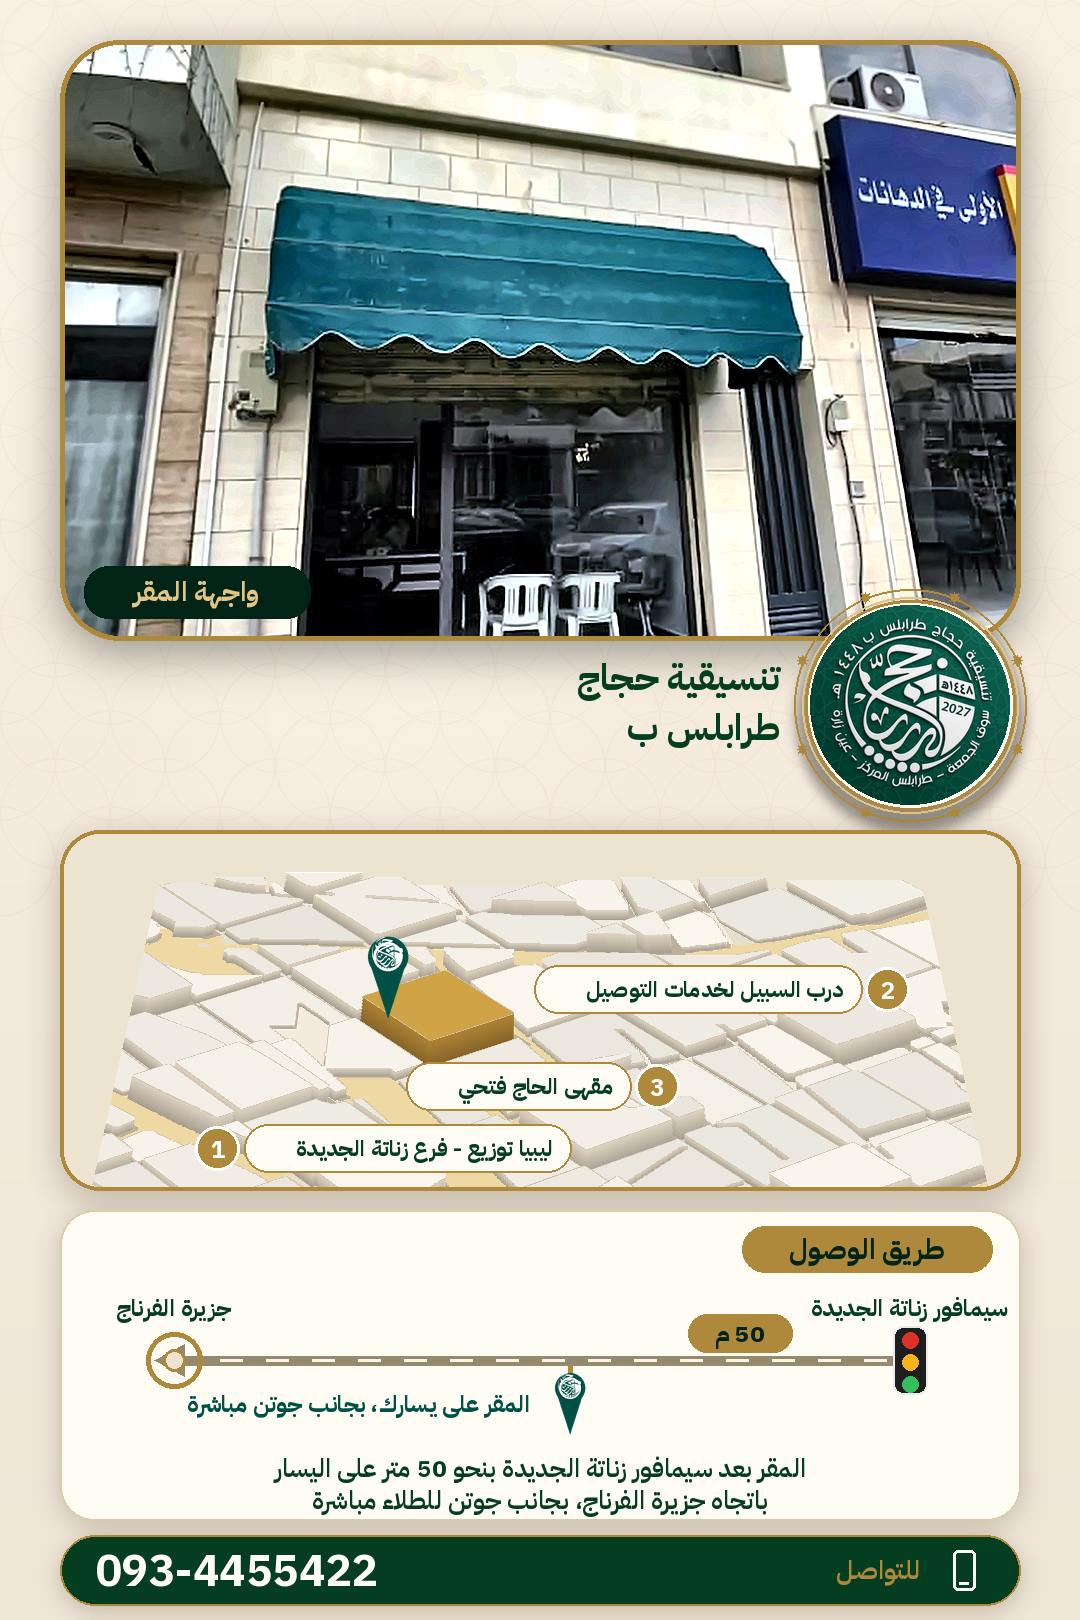
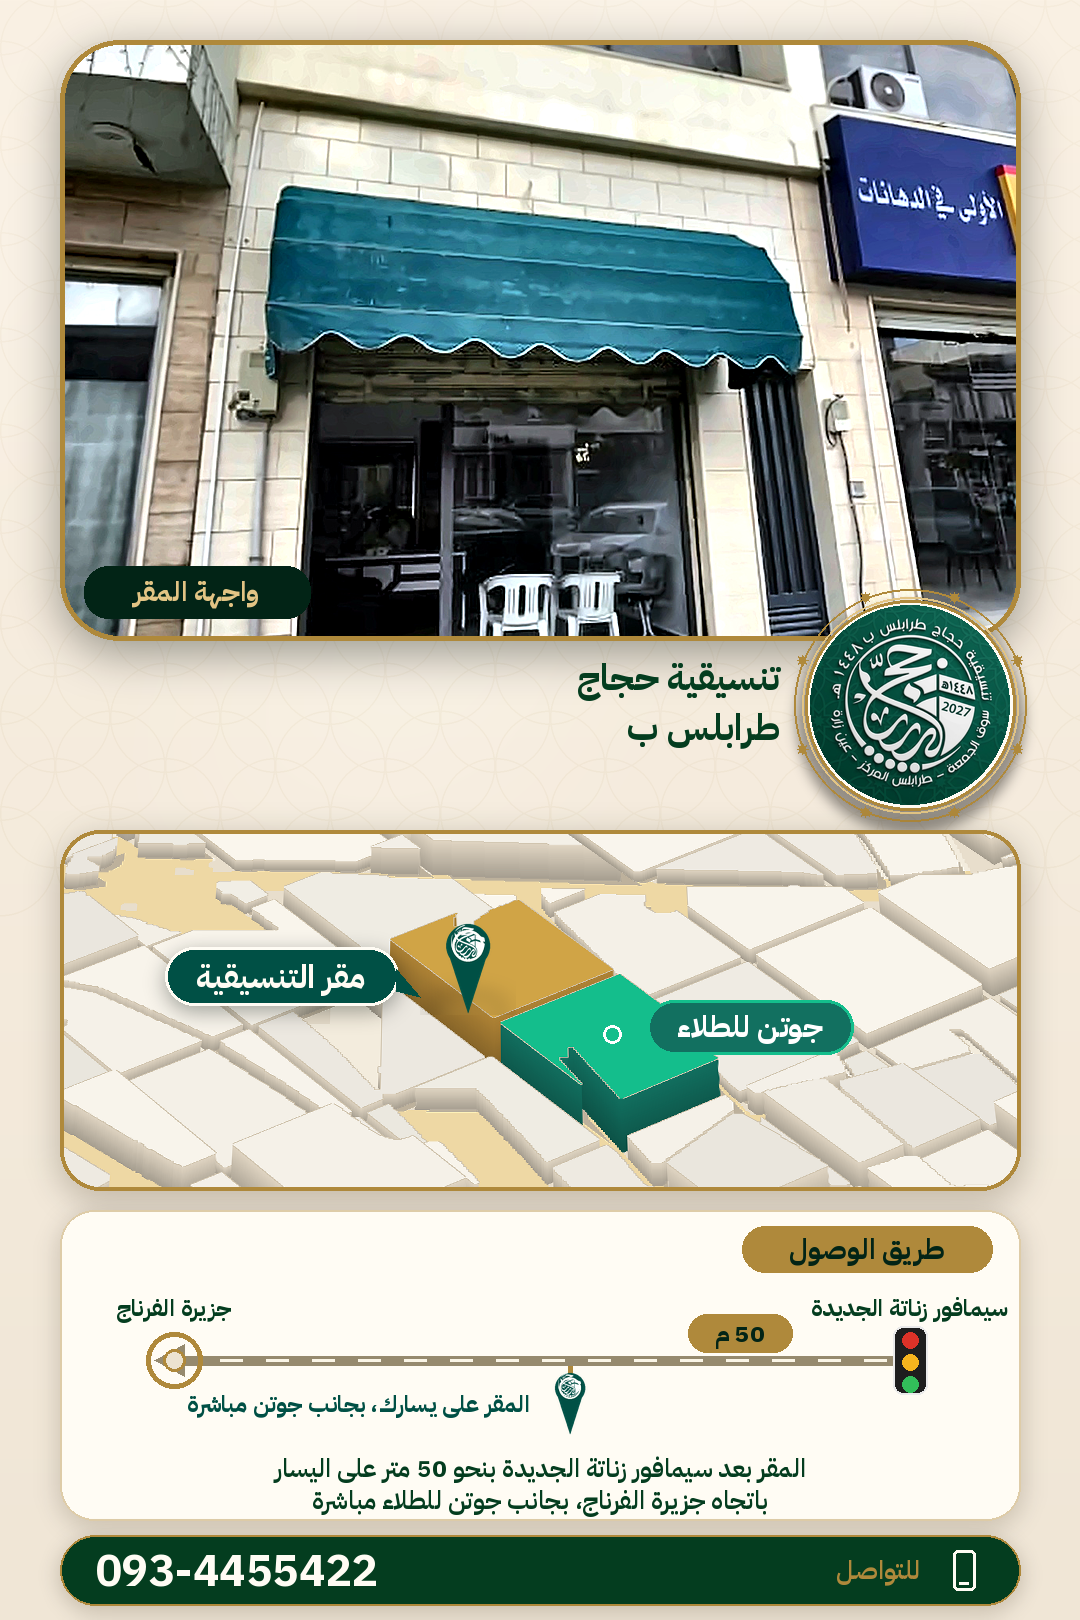
Location v5-1: close-up 3-D map highlighting the office and the adjacent Jotun shop only
Claude-Session: https://claude.ai/code/session_0191y2EXY5dUDpfBFmNJAMrU

Changed region(s): [[0.0611, 0.4938, 0.9472, 0.7407]]

diff --git a/identity_pack/real_map.py b/identity_pack/real_map.py
@@ -95,7 +95,8 @@ def _homography(src, dst):
     h = np.linalg.solve(np.array(A, float), np.array([c for p in dst for c in p], float))
     return np.append(h, 1).reshape(3, 3)
 
-def iso(win, width, pal, squash=.56, inset=.16, seed=5, hq_roof=None):
+def iso(win, width, pal, squash=.56, inset=.16, seed=5, hq_roof=None, neighbor=None):
+    """neighbor=(wall, roof) highlights the lot touching the office lot (e.g. the Jotun paints shop); its projected roof centre is returned as project.neighbor."""
     scale = width / (win[2] - win[0])
     road = _crop(_roads(), win, scale)
     major = _major(road, scale)
@@ -114,6 +115,18 @@ def iso(win, width, pal, squash=.56, inset=.16, seed=5, hq_roof=None):
     ox, oy = to_out(win, scale)(PIN)
     ys, xs = np.nonzero(lots)
     k = int(np.argmin((xs - ox) ** 2 + (ys - oy) ** 2)); pin_lab = lab[ys[k], xs[k]]
+    nb_lab = None; nb_xy_ok = False
+    if neighbor:
+        cents = ndi.center_of_mass(lots, lab, range(1, n + 1)); hq_c = cents[pin_lab - 1]
+        objs0 = ndi.find_objects(lab); cand = []
+        touch = set(np.unique(lab[ndi.binary_dilation(lab == pin_lab, iterations=max(2, int(7 * scale)))]).tolist()) - {0, pin_lab}
+        for i in touch:
+            sl0 = objs0[i - 1]; m0 = lab[sl0] == i; a0 = int(m0.sum())
+            if a0 < 200 * scale * scale or areas[blab[sl0][m0][0] - 1] > .35 * sw * sh: continue
+            cand.append((-a0, i))
+        if not cand:
+            cand = [(math.hypot(c[1] - hq_c[1], c[0] - hq_c[0]), i + 1) for i, c in enumerate(cents) if i + 1 != pin_lab]
+        nb_lab = min(cand)[1]
     pad_top = int(150 * scale)
     img = Image.new("RGBA", (sw, sh + pad_top), (0, 0, 0, 0))
     ground = Image.new("RGBA", (sw, sh), pal["road"] + (255,))
@@ -137,11 +150,13 @@ def iso(win, width, pal, squash=.56, inset=.16, seed=5, hq_roof=None):
         if areas[blab[sl][m_][0] - 1] > .35 * sw * sh:
             continue
         bm = Image.fromarray((m_ * 255).astype("uint8"))
-        is_hq = i == pin_lab
-        h = int((rnd.choice([5, 8, 11, 15, 20, 27]) if not is_hq else 36) * scale * 1.2)
-        wall = pal["hq_wall"] if is_hq else pal["wall"]
+        is_hq = i == pin_lab; is_nb = i == nb_lab
+        h = int((rnd.choice([5, 8, 11, 15, 20, 27]) if not (is_hq or is_nb) else 36) * scale * 1.2)
+        wall = pal["hq_wall"] if is_hq else (neighbor[0] if is_nb else pal["wall"])
         k_ = rnd.uniform(.93, 1.0)
-        roof = (hq_roof or pal["hq_roof"]) if is_hq else tuple(int(c * k_) for c in pal["roof"])
+        roof = (hq_roof or pal["hq_roof"]) if is_hq else (neighbor[1] if is_nb else tuple(int(c * k_) for c in pal["roof"]))
+        if is_nb:
+            cy_, cx_ = ndi.center_of_mass(m_); nb_xy = (x0 + cx_, y0 + cy_ + pad_top - h); nb_xy_ok = True
         img.paste(Image.new("RGBA", bm.size, pal["shadow"]), (x0 + int(h * .3), y0 + pad_top + int(h * .12)), bm)
         for t in range(0, h, 2):
             col = tuple(int(c * (0.74 + 0.26 * t / h)) for c in wall) + (255,)
@@ -160,6 +175,8 @@ def iso(win, width, pal, squash=.56, inset=.16, seed=5, hq_roof=None):
     def project(p, z=0):
         x, y = to_out(win, scale)(p); y += pad_top - z * scale
         v = Hm @ np.array([x, y, 1.0]); return v[0] / v[2], v[1] / v[2]
+    if neighbor and nb_xy_ok:
+        v_ = Hm @ np.array([nb_xy[0], nb_xy[1], 1.0]); project.neighbor = (v_[0] / v_[2], v_[1] / v_[2])
     return out, project
 
 def ImageChops_sub(a, b):

diff --git a/identity_pack/make_location_v5.py b/identity_pack/make_location_v5.py
@@ -56,6 +56,34 @@ def iso_map(img, box, dark=False, labels=True, r=40, pin_col=None):
     ml.pin(img, hx, hy - 14, 40, pin_col or (GOLD if dark else TEAL), ring=GREEN_DK if dark else CREAM, logo=asset("hajj_logo_white"))
     return hx, hy
 
+
+JT_WALL, JT_ROOF = (18, 112, 96), (20, 190, 140)
+def iso_focus(img, box, r=40):
+    """Close-up 3-D map: only the coordination office (gold) and the Jotun shop next to it (emerald)."""
+    cw, ch = box[2] - box[0], box[3] - box[1]
+    win = rm.window_for([], pad=230, aspect=1.6)
+    m3, proj = rm.iso(win, 1700, L1.ISO_LIGHT, squash=.50, inset=.08, neighbor=(JT_WALL, JT_ROOF))
+    hx0, hy0 = proj(rm.PIN, 0); jx0, jy0 = proj.neighbor
+    cx0 = int(min(max((hx0 + jx0) / 2 - cw * .5, 0), max(0, m3.size[0] - cw))); cy0 = int(min(max((hy0 + jy0) / 2 - ch * .55, 0), max(0, m3.size[1] - ch)))
+    crop = Image.new("RGBA", (cw, ch), (236, 227, 208, 255)); crop.alpha_composite(m3.crop((cx0, cy0, cx0 + cw, cy0 + ch)))
+    soft_shadow(img, box, r, alpha=70, blur=16, off=9, rgb=(90, 70, 30))
+    mm = Image.new("L", img.size, 0); ImageDraw.Draw(mm).rounded_rectangle(box, r, fill=255)
+    layer = Image.new("RGB", img.size); layer.paste(crop.convert("RGB"), (box[0], box[1])); img.paste(layer, (0, 0), mm)
+    ImageDraw.Draw(img).rounded_rectangle(box, r, outline=GOLD, width=4)
+    hx, hy = hx0 - cx0 + box[0], hy0 - cy0 + box[1]; jx, jy = jx0 - cx0 + box[0], jy0 - cy0 + box[1]
+    d = ImageDraw.Draw(img)
+    # Jotun label (emerald pill) with a leader to the roof
+    f = font(700, 30); t = "جوتن للطلاء"; w = f.getlength(t, direction="rtl", language="ar") + 60
+    side = 1 if jx >= hx else -1
+    lx = jx + side * (34 + w / 2); ly = jy - 8
+    lx = min(max(lx, box[0] + w / 2 + 14), box[2] - w / 2 - 14)
+    d.line((jx, jy, lx - side * w / 2, ly), fill=JT_ROOF, width=5); d.ellipse((jx - 9, jy - 9, jx + 9, jy + 9), fill=JT_ROOF, outline=WHITE, width=3)
+    d.rounded_rectangle((lx - w / 2, ly - 27, lx + w / 2, ly + 27), 27, fill=JT_WALL, outline=JT_ROOF, width=3)
+    d.text((lx, ly), t, font=f, fill=WHITE, anchor="mm", direction="rtl", language="ar")
+    ml.pin(img, hx, hy - 14, 44, TEAL, ring=CREAM, logo=asset("hajj_logo_white"), glow_rgb=GOLD)
+    L1.callout(img, hx, hy + 44, "مقر التنسيقية", side="left" if side == 1 else "right")
+    return hx, hy
+
 def route_panel(img, box, dark=False):
     x0, y0, x1, y1 = box; w = x1 - x0
     if dark:
@@ -102,7 +130,7 @@ def n1():
     d.rounded_rectangle((box[0] + 24, box[3] - 74, box[0] + 250, box[3] - 22), 24, fill=(2, 36, 22)); d.text((box[0] + 137, box[3] - 48), "واجهة المقر", font=font(700, 27), fill=GOLD_LT, anchor="mm", direction="rtl", language="ar")
     medallion(img, W - 170, 705, 100, shadow=True); d = ImageDraw.Draw(img)
     d.text((W - 170 - 130, 677), "تنسيقية حجاج", font=font(700, 36), fill=GREEN, anchor="rm", direction="rtl", language="ar"); d.text((W - 170 - 130, 727), "طرابلس ب", font=font(700, 36), fill=GREEN, anchor="rm", direction="rtl", language="ar")
-    mb = (60, 830, W - 60, 1190); iso_map(img, mb)
+    mb = (60, 830, W - 60, 1190); iso_focus(img, mb)
     route_panel(img, (60, 1210, W - 60, 1520))
     contact(img, (60, 1535, W - 60, 1605))
     return img
